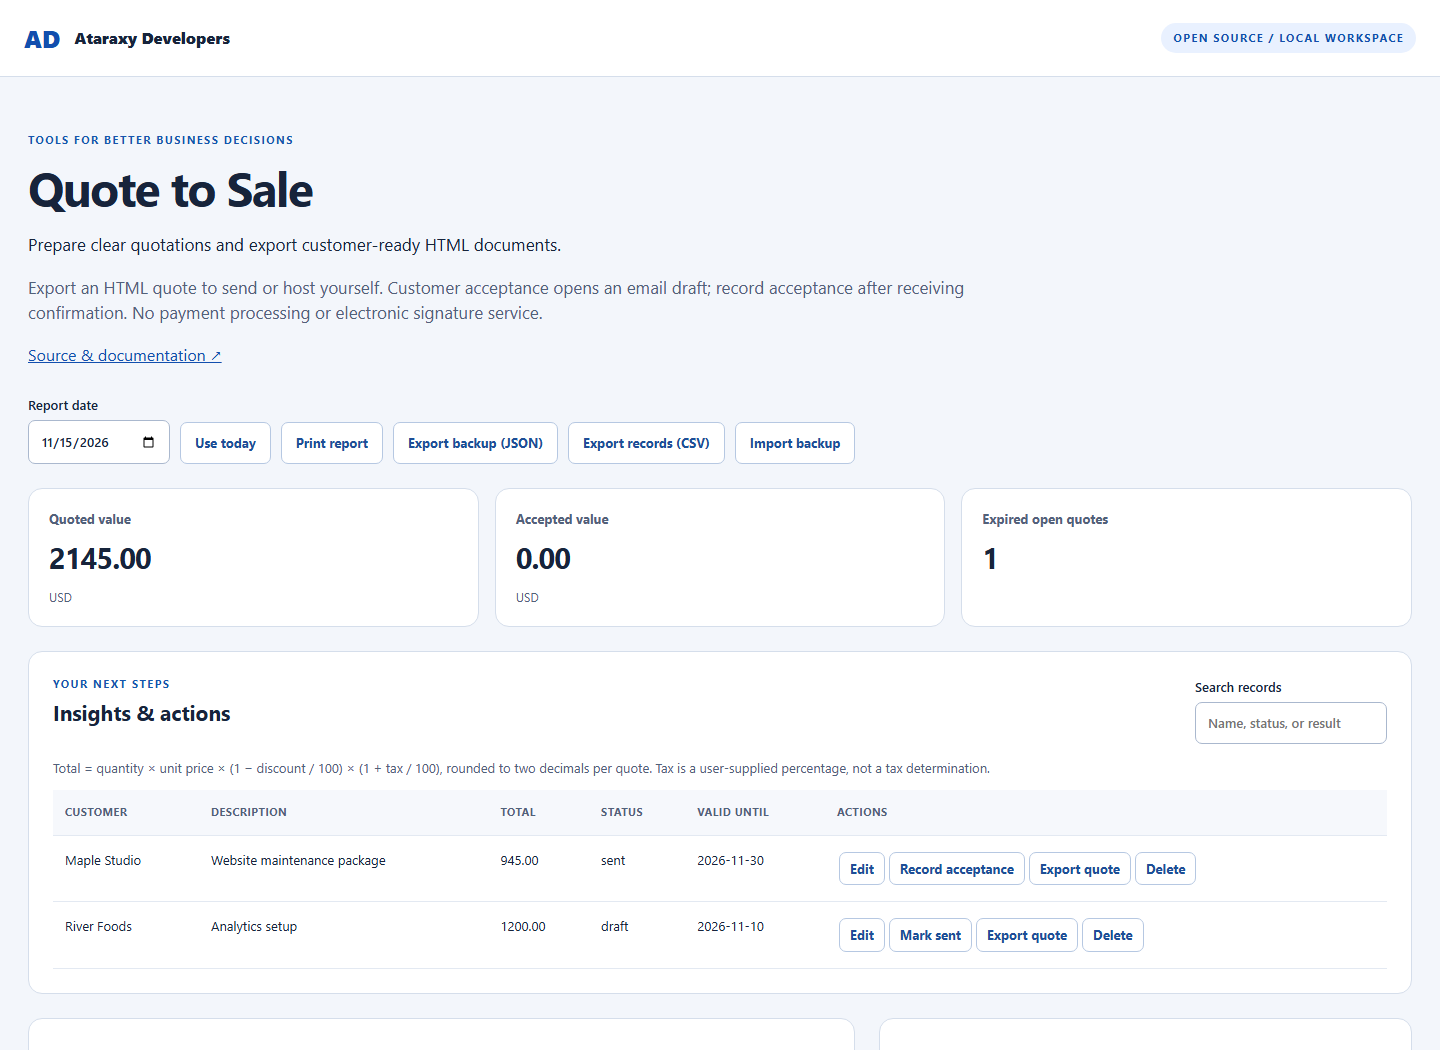
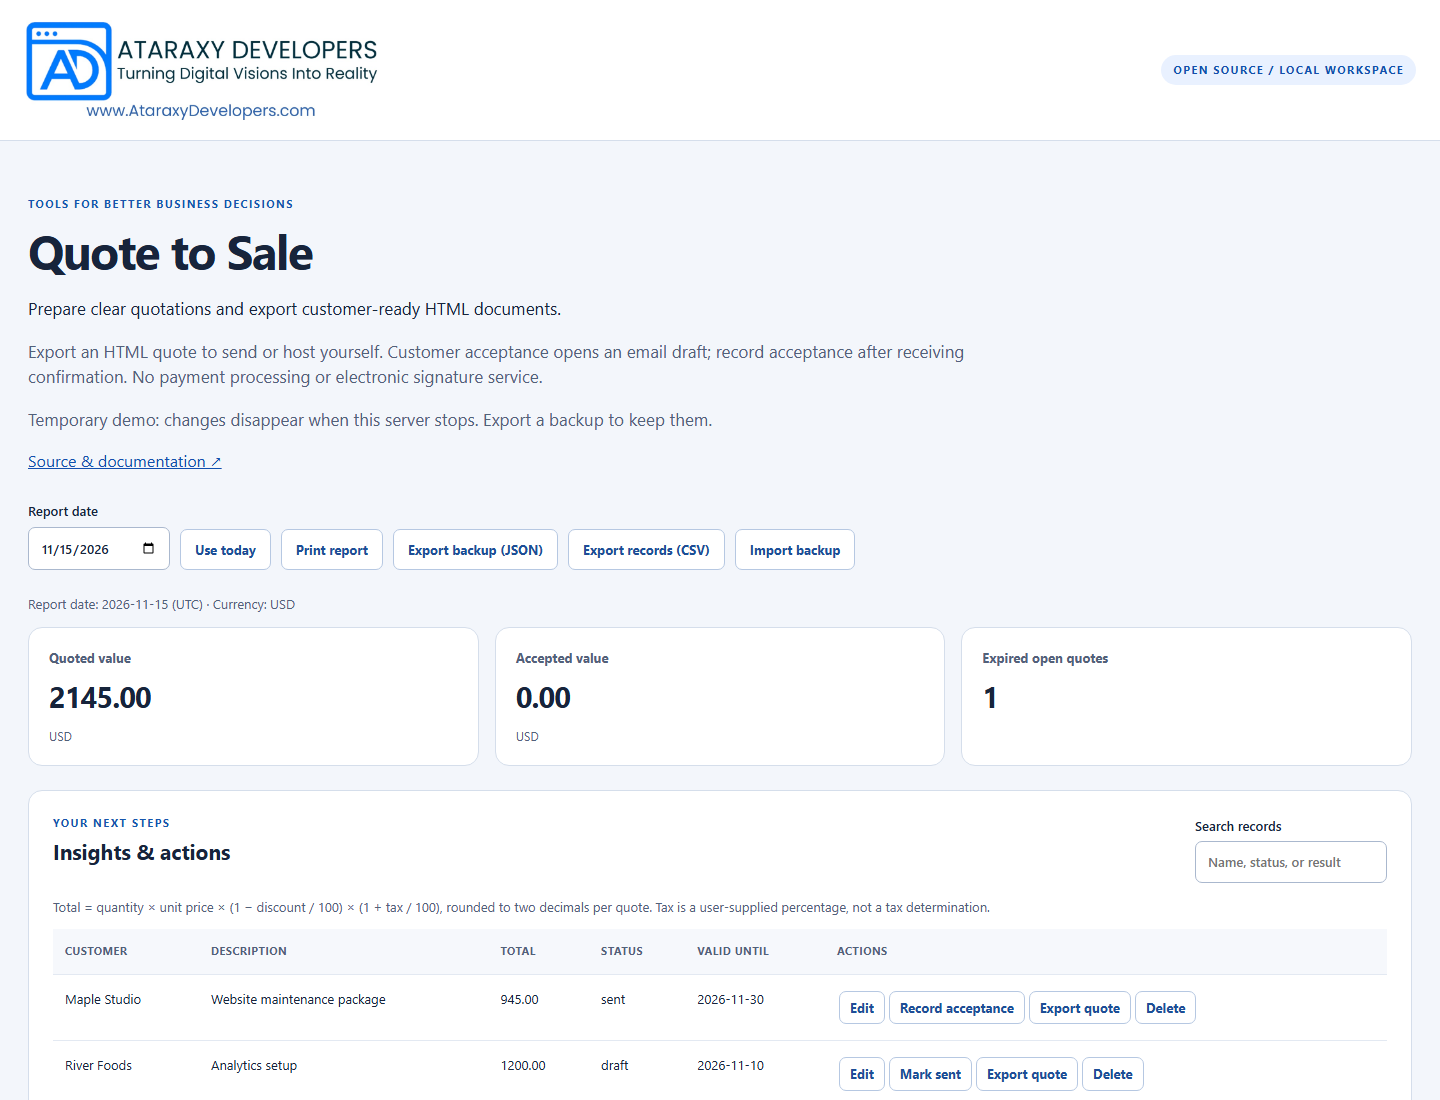
Use approved Ataraxy Developers branding

diff --git a/public/index.html b/public/index.html
@@ -4,16 +4,14 @@
     <meta charset="utf-8" />
     <meta name="viewport" content="width=device-width,initial-scale=1" />
     <title>Business workspace · Ataraxy Developers</title>
-    <link rel="icon" href="/favicon.svg" />
+    <link rel="icon" href="/ataraxy-developers-logo.png" type="image/png" />
     <link rel="stylesheet" href="/style.css" />
     <script type="module" src="/app.js"></script>
   </head>
   <body>
     <a class="skip" href="#main">Skip to workspace</a>
     <header>
-      <a class="brand" href="https://ataraxydevelopers.com"
-        >AD <span>Ataraxy Developers</span></a
-      ><span class="badge">OPEN SOURCE / LOCAL WORKSPACE</span>
+      <a class="brand" href="https://ataraxydevelopers.com"><img src="/ataraxy-developers-logo.png" alt="Ataraxy Developers — Turning Digital Visions Into Reality" width="1127" height="313" /></a><span class="badge">OPEN SOURCE / LOCAL WORKSPACE</span>
     </header>
     <main id="main">
       <section class="hero">

diff --git a/public/style.css b/public/style.css
@@ -40,10 +40,6 @@ header {
   font-weight: 800;
   text-decoration: none;
 }
-.brand span {
-  font-size: 16px;
-  color: #17243b;
-}
 .badge,
 .eyebrow {
   font-size: 11px;
@@ -364,3 +360,9 @@ footer {
     font-size: 27px;
   }
 }
+
+/* Use the complete, original company artwork without distortion. */
+header { flex-wrap: wrap; gap: 16px; background: #fff; }
+.brand { display: block; flex: 0 1 360px; min-width: 0; max-width: 100%; background: #fff; }
+.brand img { display: block; width: 360px; max-width: 100%; height: auto; }
+@media (max-width: 600px) { header { padding: 18px 20px; } .brand { flex-basis: 360px; } }

diff --git a/BRANDING.md b/BRANDING.md
@@ -1,0 +1,10 @@
+# Ataraxy Developers branding
+
+The company-approved logo is [public/ataraxy-developers-logo.png](public/ataraxy-developers-logo.png). It is the original PNG supplied by Ataraxy Developers on 2026-11-16, unchanged.
+
+- Preserve the complete artwork, its aspect ratio, and its white background.
+- Do not redraw it or substitute typed initials, an invented monogram, or generated artwork.
+- Use readable sizing and descriptive alternative text.
+- Capture screenshots from the working interface after this logo has loaded.
+
+SHA-256: 87ebc5a0092af0fff4524e805730ca3dc97c4483bd49f866528b8cdb97d422e7

diff --git a/README.md b/README.md
@@ -1,3 +1,5 @@
+<p><a href="https://ataraxydevelopers.com"><img src="public/ataraxy-developers-logo.png" alt="Ataraxy Developers — Turning Digital Visions Into Reality" width="520"></a></p>
+
 # Quote to Sale
 
 [![CI](https://github.com/AtaraxyDevelopers/quote-to-sale/actions/workflows/ci.yml/badge.svg)](https://github.com/AtaraxyDevelopers/quote-to-sale/actions/workflows/ci.yml)

diff --git a/CHANGELOG.md b/CHANGELOG.md
@@ -1,5 +1,9 @@
 # Changelog
 
+## 0.1.2 — 2026-11-16
+
+Use the original, approved Ataraxy Developers logo and document its source. Update the interface and browser icon, serve the PNG correctly, and replace the README screenshot with a capture of the corrected app.
+
 ## 0.1.1
 
 - Correct optional date defaults when adding records.
